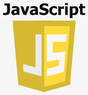
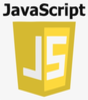
adding resized images

diff --git a/memoryGame/main.py b/memoryGame/main.py
@@ -27,7 +27,6 @@ def main(Title: str, Width: int, Height: int):
     show_cards(win)
 
     #Fechamento
-    sleep(5)
     win.getMouse()
     win.close()
 
@@ -116,14 +115,14 @@ def show_cards(win):
         df.draw(win)
         
         if spots > 9 and errors <= 1:
-            text_win = Text(Point(420,450), "Parabéns, você Ganhou :D !")
+            text_win = Text(Point(420,450), "Parabéns, você ganhou :D !")
             text_win.setTextColor('White')
             text_win.setSize(25)
             text_win.setStyle('bold')
             text_win.draw(win)
             sleep(5) 
         else:
-            text_lost = Text(Point(420,450), "Você Perdeu :,( !")
+            text_lost = Text(Point(420,450), "Você perdeu :,( !")
             text_lost.setTextColor('White')
             text_lost.setSize(25)
             text_lost.setStyle('bold')
